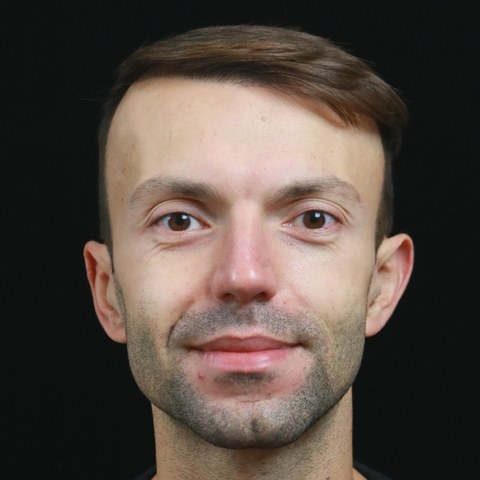
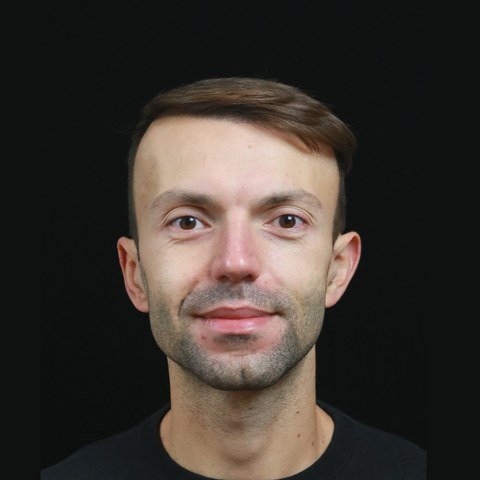
Update About, publications, talks and site metadata
About: new tagline, research interests line and bio text. The home
page title and the structured data (sameAs, jobTitle, worksFor) are
set, the sidebar no longer links Instagram, and the profile photo is
zoomed out.

Publications: merge the TaintBench (EMSE and ICSE) and Codebase-Adaptive
(ISSTA and technical report) pairs, remove five older theses and
reports, and replace OneDrive links with DOI links.

Talks: show month and year only and title the 2026 Paderborn talk.

Remove the unused MathJax script.

diff --git a/_includes/seo.html b/_includes/seo.html
@@ -6,7 +6,9 @@
 {% endif %}
 {% assign seo_url = seo_url | default: site.github.url %}
 
-{% if page.title %}
+{% if page.seo_title %}
+  {% assign seo_title = page.seo_title %}
+{% elsif page.title %}
   {% assign seo_title = page.title | append: " " | append: site.title_separator | append: " " | append: site.title %}
 {% endif %}
 {% if seo_title %}
@@ -111,7 +113,13 @@ Twitter username (site.twitter.username), matching upstream behavior.
       "@type" : "{% if site.social.type %}{{ site.social.type }}{% else %}Person{% endif %}",
       "name" : "{{ site.social.name | default: site.name }}",
       "url" : {{ seo_url | jsonify }},
-      "sameAs" : {{ site.social.links | jsonify }}
+      {% if site.social.job_title %}"jobTitle" : {{ site.social.job_title | jsonify }},
+      {% endif %}{% if site.social.works_for %}"worksFor" : {
+        "@type" : "Organization",
+        "name" : {{ site.social.works_for | jsonify }}{% if site.social.works_for_url %},
+        "url" : {{ site.social.works_for_url | jsonify }}{% endif %}
+      },
+      {% endif %}"sameAs" : {{ site.social.links | jsonify }}
     }
   </script>
 {% endif %}

diff --git a/_layouts/talk.html b/_layouts/talk.html
@@ -33,7 +33,7 @@ layout: default
         {% if page.modified %}
           <p class="page__date"><strong><i class="fa fa-fw fa-calendar" aria-hidden="true"></i>Date:</strong> <time datetime="{{ page.modified | date: "%Y-%m-%d" }}">{{ page.modified | date: "%B %d, %Y" }}</time></p>
         {% elsif page.date %}
-          <p class="page__date"><strong><i class="fa fa-fw fa-calendar" aria-hidden="true"></i>Date:</strong> <time datetime="{{ page.date | date_to_xmlschema }}">{{ page.date | date: "%B %d, %Y" }}</time></p>
+          <p class="page__date"><strong><i class="fa fa-fw fa-calendar" aria-hidden="true"></i>Date:</strong> <time datetime="{{ page.date | date_to_xmlschema }}">{{ page.date | date: "%B %Y" }}</time></p>
         {% endif %}
         {% if page.talk_type %}<p>{{page.talk_type}} at {{ page.venue }},  {{page.location}} {% endif %}
 

diff --git a/_includes/archive-single-talk.html b/_includes/archive-single-talk.html
@@ -35,7 +35,7 @@
     {% if post.read_time %}
       <p class="page__meta"><i class="fa fa-clock" aria-hidden="true"></i> {% include read-time.html %}</p>
     {% endif %}
-    {% if post.date %}<p class="page__meta"><i class="fa fa-clock" aria-hidden="true"></i> {{ post.date | date: '%B %d, %Y' }}</p>{% endif %}
+    {% if post.date %}<p class="page__meta"><i class="fa fa-clock" aria-hidden="true"></i> {{ post.date | date: '%B %Y' }}</p>{% endif %}
     {% if post.venue %}<p class="archive__item-excerpt" itemprop="description">{{post.type}}, {{ post.venue }},  {{post.location}}</p>{% endif %}
     {% if post.excerpt %}<div class="archive__item-excerpt" itemprop="description">{{ post.excerpt | markdownify }}</div>{% endif %}
   </article>

diff --git a/_includes/archive-single-talk-cv.html b/_includes/archive-single-talk-cv.html
@@ -33,7 +33,7 @@
         <a href="{{ base_path }}{{ post.url }}" rel="permalink">{{ title }}</a>
       {% endif %}
     </h3>
-    {% if post.date %}<p class="page__meta"><i class="fa fa-clock" aria-hidden="true"></i> {{ post.date | date: '%B %d, %Y' }}</p>{% endif %}
+    {% if post.date %}<p class="page__meta"><i class="fa fa-clock" aria-hidden="true"></i> {{ post.date | date: '%B %Y' }}</p>{% endif %}
     {% if post.venue%}<p class="archive__item-excerpt" itemprop="description">{{post.type}} at {{ post.venue }},  {{post.location}}</p>{% endif %}
     </li>
   </article>

diff --git a/_includes/footer/custom.html b/_includes/footer/custom.html
@@ -1,6 +1,3 @@
 <!-- start custom footer snippets -->
 
-<!-- Support for MathJax -->
-<script id="MathJax-script" defer src="https://cdn.jsdelivr.net/npm/mathjax@4.0.0/tex-mml-chtml.js"></script>
-
 <!-- end custom footer snippets -->

diff --git a/_pages/about.md b/_pages/about.md
@@ -1,28 +1,22 @@
 ---
 permalink: /
 title: "Goran Piskachev"
+seo_title: "Goran Piskachev - Applied Scientist, AWS"
 author_profile: true
 redirect_from:
   - /about/
   - /about.html
 ---
 
+**Applied Scientist @ AWS &#124; Associate Editor, IEEE Software**
 
-I am an Applied Scientist at Amazon Web Services, based in New York, USA. My work focuses on building automated reasoning tools that make systems secure at scale. Currently, I am developing deterministic techniques that help security reviews keep up with the accelerating pace of software development driven by generative AI. 
+**Research interests:** Program Analysis - Automated Reasoning - Software Security - Data Protection
 
-My recent work was in the data protection space, where I developed techniques for detecting and protecting sensitive data in code, logs, documents, and other unstructured data. Before that, I worked on program analysis, specifically a taint analysis framework that identifies security and privacy vulnerabilities in source code. This analysis was available to external customers through Amazon CodeGuru. The technical approach is described in our paper [Compositional Taint Analysis for Enforcing Security and Privacy Policies at Scale](https://www.amazon.science/publications/compositional-taint-analysis-for-enforcing-security-policies-at-scale).
+I am an Applied Scientist at Amazon Web Services (AWS) in New York. My research uses automated reasoning to make software secure and privacy-preserving at industrial scale. I work at the intersection of program analysis, formal methods, and machine learning, and I build techniques that hold up on industry scale codebases.
+
+At AWS, I have worked on [compositional taint analysis](https://www.amazon.science/publications/compositional-taint-analysis-for-enforcing-security-policies-at-scale) that finds security and privacy vulnerabilities in source code, which shipped to customers in Amazon CodeGuru. I have also developed techniques for detecting and protecting sensitive data across code, logs, and unstructured documents. Currently, I am developing deterministic reasoning techniques that complement generative AI, so that security assurance can keep pace with AI-accelerated software development.
 
 I hold a PhD from Paderborn University, supervised by Prof. Dr. [Eric Bodden](https://www.bodden.de/). In my [PhD thesis](https://digital.ub.uni-paderborn.de/doi/10.17619/UNIPB/1-1665), I developed techniques that bring taint analysis for detecting security vulnerabilities closer to software developers. During my doctoral studies, I received a research grant through the Software Campus program, funded by the German Federal Ministry of Education and Research, for the project [SecuCheck](https://secucheck.github.io/).
-
-**Research Interests**
-
-* Program analysis
-* Application security
-* Privacy engineering
-* Responsible AI
-* Empirical software engineering
-
-
 
 Contact
 ------

diff --git a/_publications/2021-01-28-taintbench-automatic-real-world-malware-benchmarki.md b/_publications/2021-01-28-taintbench-automatic-real-world-malware-benchmarki.md
@@ -4,10 +4,10 @@ collection: publications
 category: manuscripts
 permalink: /publication/2021-01-28-taintbench-automatic-real-world-malware-benchmarki
 date: 2021-01-28
-venue: 'Empirical Software Engineering Springer (EMSE)'
-link: 'https://t.co/49z3WgfzA1?amp=1'
+venue: 'Empirical Software Engineering Springer (EMSE), 2021, and International Conference on Software Engineering (ICSE), Pittsburgh, USA, May 2022'
+link: 'https://doi.org/10.1007/s10664-021-10013-5'
 excerpt: 'Linghui Luo, Felix Pauck, Goran Piskachev, Manuel Benz, Ivan Pashchenko, Martin Mory, Eric Bodden, Ben Hermann, and Fabio Massacci.'
-citation: 'Linghui Luo, Felix Pauck, Goran Piskachev, Manuel Benz, Ivan Pashchenko, Martin Mory, Eric Bodden, Ben Hermann, and Fabio Massacci. "TaintBench: Automatic Real-World Malware Benchmarking of Android Taint Analyses." Empirical Software Engineering Springer (EMSE), 2021.'
+citation: 'Linghui Luo, Felix Pauck, Goran Piskachev, Manuel Benz, Ivan Pashchenko, Martin Mory, Eric Bodden, Ben Hermann, and Fabio Massacci. "TaintBench: Automatic Real-World Malware Benchmarking of Android Taint Analyses." Empirical Software Engineering Springer (EMSE), 2021, and International Conference on Software Engineering (ICSE), Pittsburgh, USA, May 2022.'
 ---
 
 [artifact](https://taintbench.github.io)

diff --git a/_publications/2019-01-25-codebase-adaptive-detection-of-security-relevant-m.md b/_publications/2019-01-25-codebase-adaptive-detection-of-security-relevant-m.md
@@ -4,8 +4,10 @@ collection: publications
 category: conferences
 permalink: /publication/2019-01-25-codebase-adaptive-detection-of-security-relevant-m
 date: 2019-01-25
-venue: 'International Symposium on Software Testing and Analysis (ISSTA), Beijing, China, July 2019'
-link: 'https://1drv.ms/b/s!Au3l-mM98H4ahKI6GyHHbMIL6pTLgw'
+venue: 'International Symposium on Software Testing and Analysis (ISSTA), Beijing, China, July 2019, and Technical Report, Heinz Nixdorf Institute, Paderborn, Germany, March 2019'
+link: 'https://doi.org/10.1145/3293882.3330556'
 excerpt: 'Goran Piskachev, Lisa Nguyen, and Eric Bodden.'
-citation: 'Goran Piskachev, Lisa Nguyen, and Eric Bodden. "Codebase-Adaptive Detection of Security-Relevant Methods." International Symposium on Software Testing and Analysis (ISSTA), Beijing, China, July 2019.'
+citation: 'Goran Piskachev, Lisa Nguyen, and Eric Bodden. "Codebase-Adaptive Detection of Security-Relevant Methods." International Symposium on Software Testing and Analysis (ISSTA), Beijing, China, July 2019, and Technical Report, Heinz Nixdorf Institute, Paderborn, Germany, March 2019.'
 ---
+
+[Technical report](https://www.hni.uni-paderborn.de/publikationen/publikationen/?tx_hnippview_pi1%5Bpublikation%5D=9859)

diff --git a/_publications/2022-01-26-to-what-extent-can-we-analyze-kotlin-programs-usin.md b/_publications/2022-01-26-to-what-extent-can-we-analyze-kotlin-programs-usin.md
@@ -5,7 +5,7 @@ category: conferences
 permalink: /publication/2022-01-26-to-what-extent-can-we-analyze-kotlin-programs-usin
 date: 2022-01-26
 venue: '22nd IEEE International Working Conference on Source Code Analysis and Manipulation (SCAM), Limassol, Cyprus, October 2022'
-link: 'https://1drv.ms/b/s!Au3l-mM98H4ahL8hpiy7Drr8KvMTUw'
+link: 'https://doi.org/10.1109/SCAM55253.2022.00032'
 excerpt: 'Ranjith Krishnamurthy, Goran Piskachev, and Eric Bodden. **Best engineering paper award.**'
 citation: 'Ranjith Krishnamurthy, Goran Piskachev, and Eric Bodden. "To what extent can we analyze Kotlin programs using existing Java taint analysis tools?" 22nd IEEE International Working Conference on Source Code Analysis and Manipulation (SCAM), Limassol, Cyprus, October 2022.'
 ---

diff --git a/_publications/2019-01-28-swanassist-semi-automated-detection-of-code-specif.md b/_publications/2019-01-28-swanassist-semi-automated-detection-of-code-specif.md
@@ -5,7 +5,7 @@ category: conferences
 permalink: /publication/2019-01-28-swanassist-semi-automated-detection-of-code-specif
 date: 2019-01-28
 venue: 'Demonstration Track at Automated Software Engineering (ASE), San Diego, USA, November 2019'
-link: 'https://1drv.ms/b/s!Au3l-mM98H4ahKI4t1FF5eCB09s0fA'
+link: 'https://doi.org/10.1109/ASE.2019.00110'
 excerpt: 'Goran Piskachev, Lisa Nguyen Quang Do, Oshando Johnson, and Eric Bodden.'
 citation: 'Goran Piskachev, Lisa Nguyen Quang Do, Oshando Johnson, and Eric Bodden. "SwanAssist: Semi-Automated Detection of Code-Specific, Security-Relevant Methods." Demonstration Track at Automated Software Engineering (ASE), San Diego, USA, November 2019.'
 ---

diff --git a/_publications/2021-01-27-secucheck-engineering-configurable-taint-analysis.md b/_publications/2021-01-27-secucheck-engineering-configurable-taint-analysis.md
@@ -5,7 +5,7 @@ category: conferences
 permalink: /publication/2021-01-27-secucheck-engineering-configurable-taint-analysis
 date: 2021-01-27
 venue: '21st IEEE International Working Conference on Source Code Analysis and Manipulation (SCAM)'
-link: 'https://1drv.ms/b/s!Au3l-mM98H4ahKslwNAGieTe6RK9pA?e=F50VOr'
+link: 'https://doi.org/10.1109/SCAM52516.2021.00012'
 excerpt: 'Goran Piskachev, Ranjith Krishnamurthy, and Eric Bodden.'
 citation: 'Goran Piskachev, Ranjith Krishnamurthy, and Eric Bodden. "SecuCheck: Engineering configurable taint analysis for software developers." 21st IEEE International Working Conference on Source Code Analysis and Manipulation (SCAM), 2021.'
 ---

diff --git a/_publications/2021-01-26-qualitative-and-quantitative-analysis-of-callgraph.md b/_publications/2021-01-26-qualitative-and-quantitative-analysis-of-callgraph.md
@@ -5,7 +5,7 @@ category: conferences
 permalink: /publication/2021-01-26-qualitative-and-quantitative-analysis-of-callgraph
 date: 2021-01-26
 venue: 'The First International Conference on Code Quality, Moscow, Russia, March 2021'
-link: 'https://1drv.ms/b/s!Au3l-mM98H4ahKI-dI6Uof23AxFkSw'
+link: 'https://doi.org/10.1109/ICCQ51190.2021.9392986'
 excerpt: 'Sriteja Kummita, Goran Piskachev, Johannes Späth, and Eric Bodden.'
 citation: 'Sriteja Kummita, Goran Piskachev, Johannes Späth, and Eric Bodden. "Qualitative and Quantitative Analysis of Callgraph Algorithms for PYTHON." The First International Conference on Code Quality, Moscow, Russia, March 2021.'
 ---
